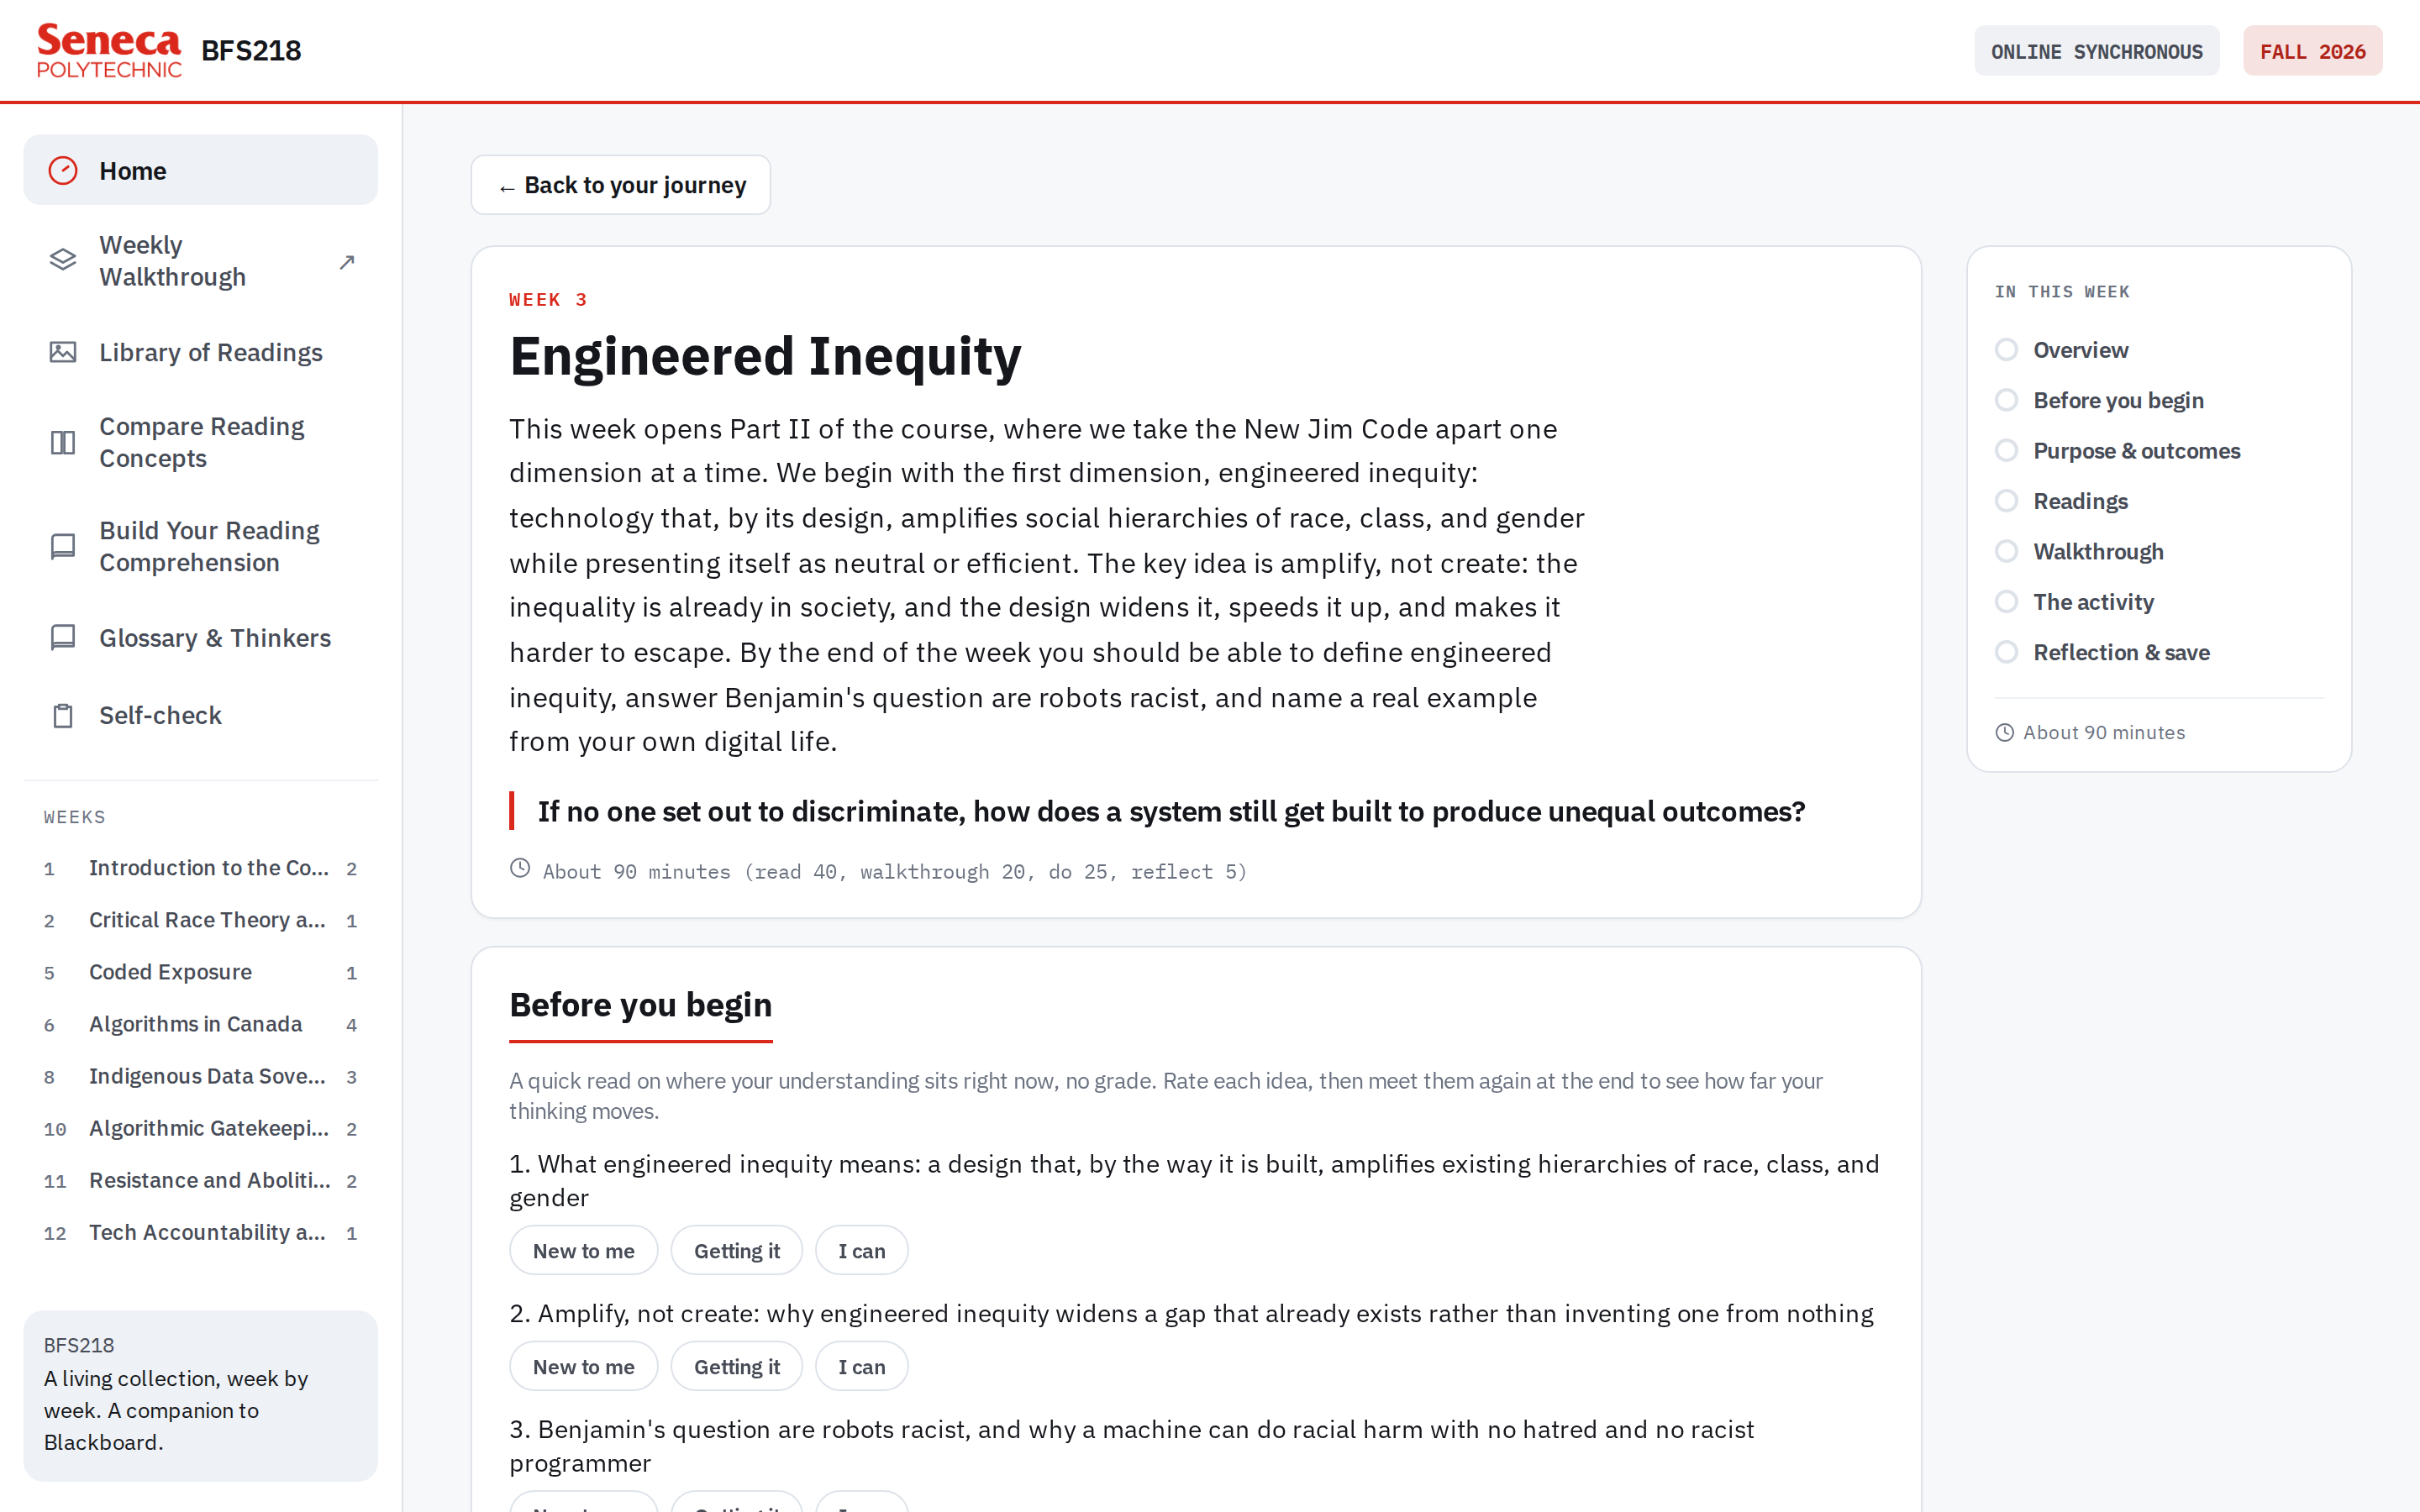
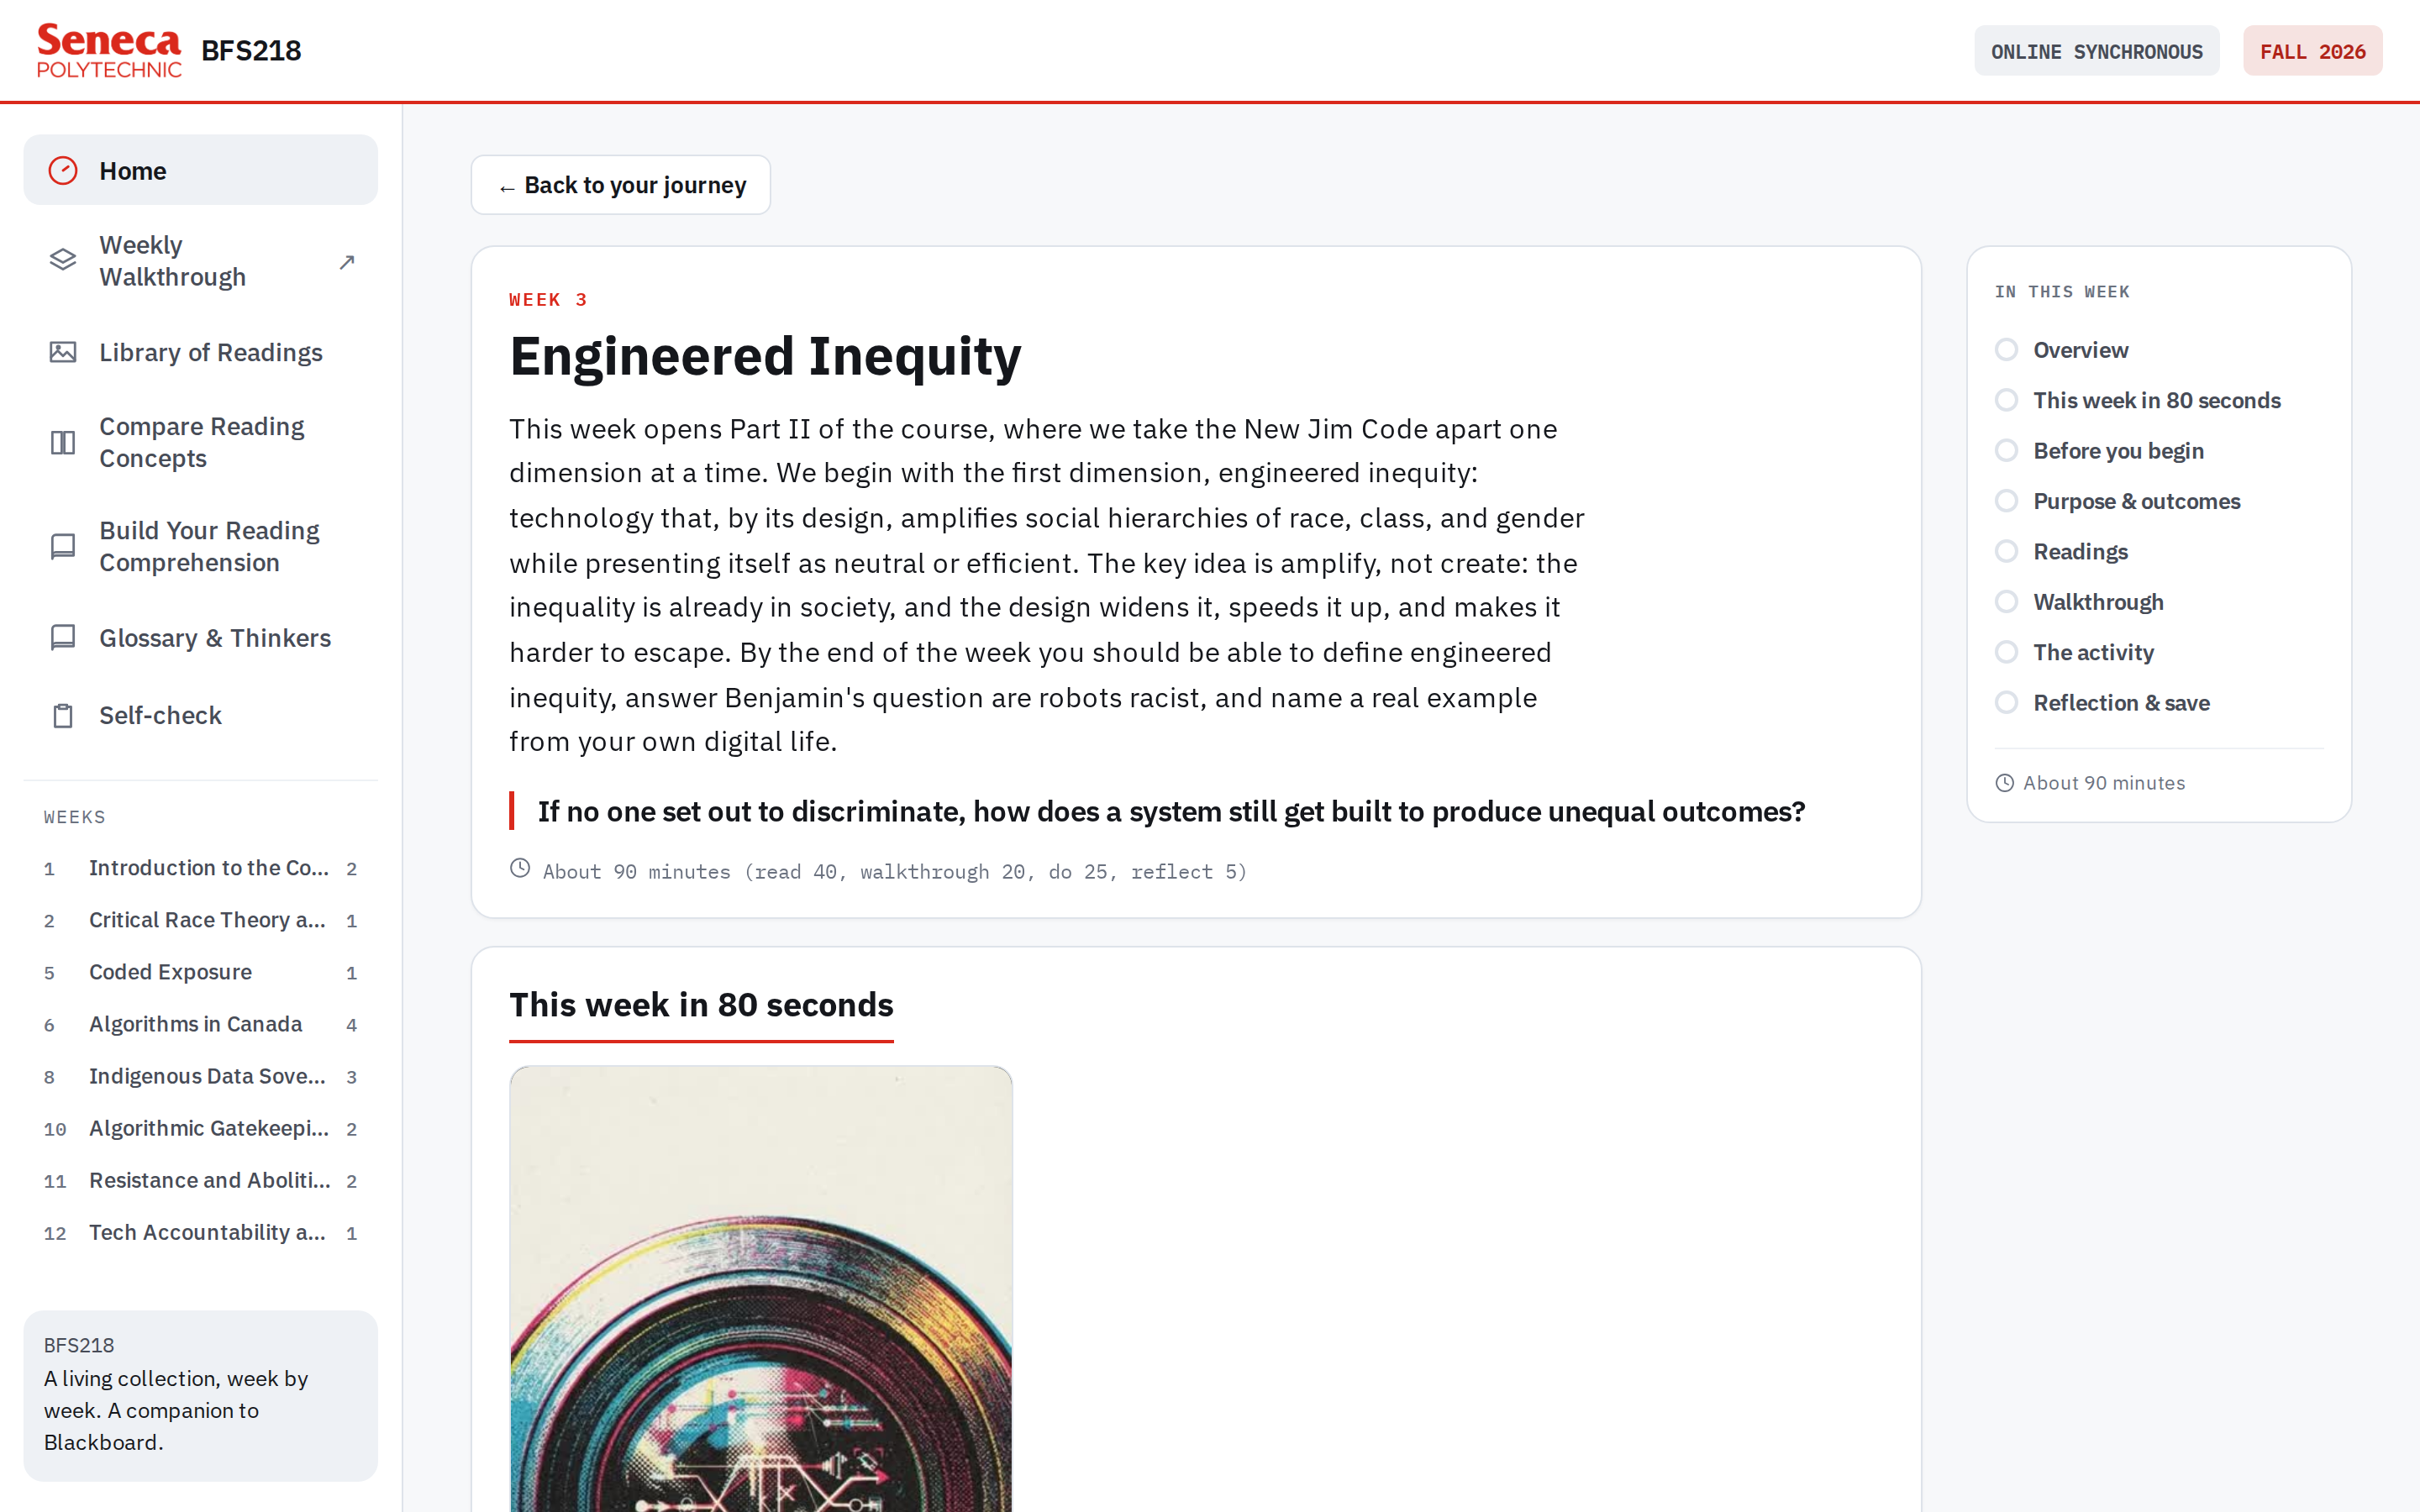
Guide cascade: rebuild after companion-site update

Changed region(s): [[0.1875, 0.6533, 0.7188, 1.0], [0.8125, 0.2489, 0.9375, 0.5289], [0.5312, 0.7467, 0.75, 0.7778]]

diff --git a/guide/index.html b/guide/index.html
@@ -157,6 +157,7 @@
   <div style="font-family:'Space Mono',monospace;font-size:11px;font-weight:700;letter-spacing:.2em;text-transform:uppercase;color:#D42315;margin:0 0 8px">The week page, block by block</div>
   <h2 id="anatomy-of-a-week" style="font-family:'Bricolage Grotesque',sans-serif;font-size:27px;line-height:1.08;font-weight:800;letter-spacing:-.01em;color:#1C1714;margin:0 0 6px">Anatomy of a week</h2>
   <p style="font-family:'Newsreader',serif;font-size:15.5px;line-height:1.72;color:#2A2320;margin:0 0 18px">Every week page runs in the order the week is meant to run. Work it top to bottom.</p>
+<div style="border:1.5px solid #E7DED2;border-radius:12px;background:#FBF8F3;padding:14px 18px;margin:0 0 18px"><p style="font-family:'Newsreader',serif;font-size:14px;line-height:1.65;color:#2A2320;margin:0"><strong style="font-family:'Bricolage Grotesque',sans-serif;font-size:13.5px">This week in 80 seconds.</strong> Content weeks open with a short animated overview under the week title, made with NotebookLM from that week's readings and reviewed by your instructor. Captions included. It is a fast on-ramp into the week, not a substitute for the readings.</p></div>
 
   <div style="border:1.5px solid #E7DED2;border-radius:16px;background:#FBF8F3;padding:20px 20px 22px">
     <div style="display:flex;flex-direction:column;gap:0">

diff --git a/guide/print.html b/guide/print.html
@@ -182,6 +182,7 @@
   <div style="font-family:'Space Mono',monospace;font-size:11px;font-weight:700;letter-spacing:.2em;text-transform:uppercase;color:#D42315;margin:0 0 8px">The week page, block by block</div>
   <h2 id="anatomy-of-a-week" style="font-family:'Bricolage Grotesque',sans-serif;font-size:27px;line-height:1.08;font-weight:800;letter-spacing:-.01em;color:#1C1714;margin:0 0 6px">Anatomy of a week</h2>
   <p style="font-family:'Newsreader',serif;font-size:15.5px;line-height:1.72;color:#2A2320;margin:0 0 18px">Every week page runs in the order the week is meant to run. Work it top to bottom.</p>
+<div style="border:1.5px solid #E7DED2;border-radius:12px;background:#FBF8F3;padding:14px 18px;margin:0 0 18px"><p style="font-family:'Newsreader',serif;font-size:14px;line-height:1.65;color:#2A2320;margin:0"><strong style="font-family:'Bricolage Grotesque',sans-serif;font-size:13.5px">This week in 80 seconds.</strong> Content weeks open with a short animated overview under the week title, made with NotebookLM from that week's readings and reviewed by your instructor. Captions included. It is a fast on-ramp into the week, not a substitute for the readings.</p></div>
 
   <div style="border:1.5px solid #E7DED2;border-radius:16px;background:#FBF8F3;padding:20px 20px 22px">
     <div style="display:flex;flex-direction:column;gap:0">